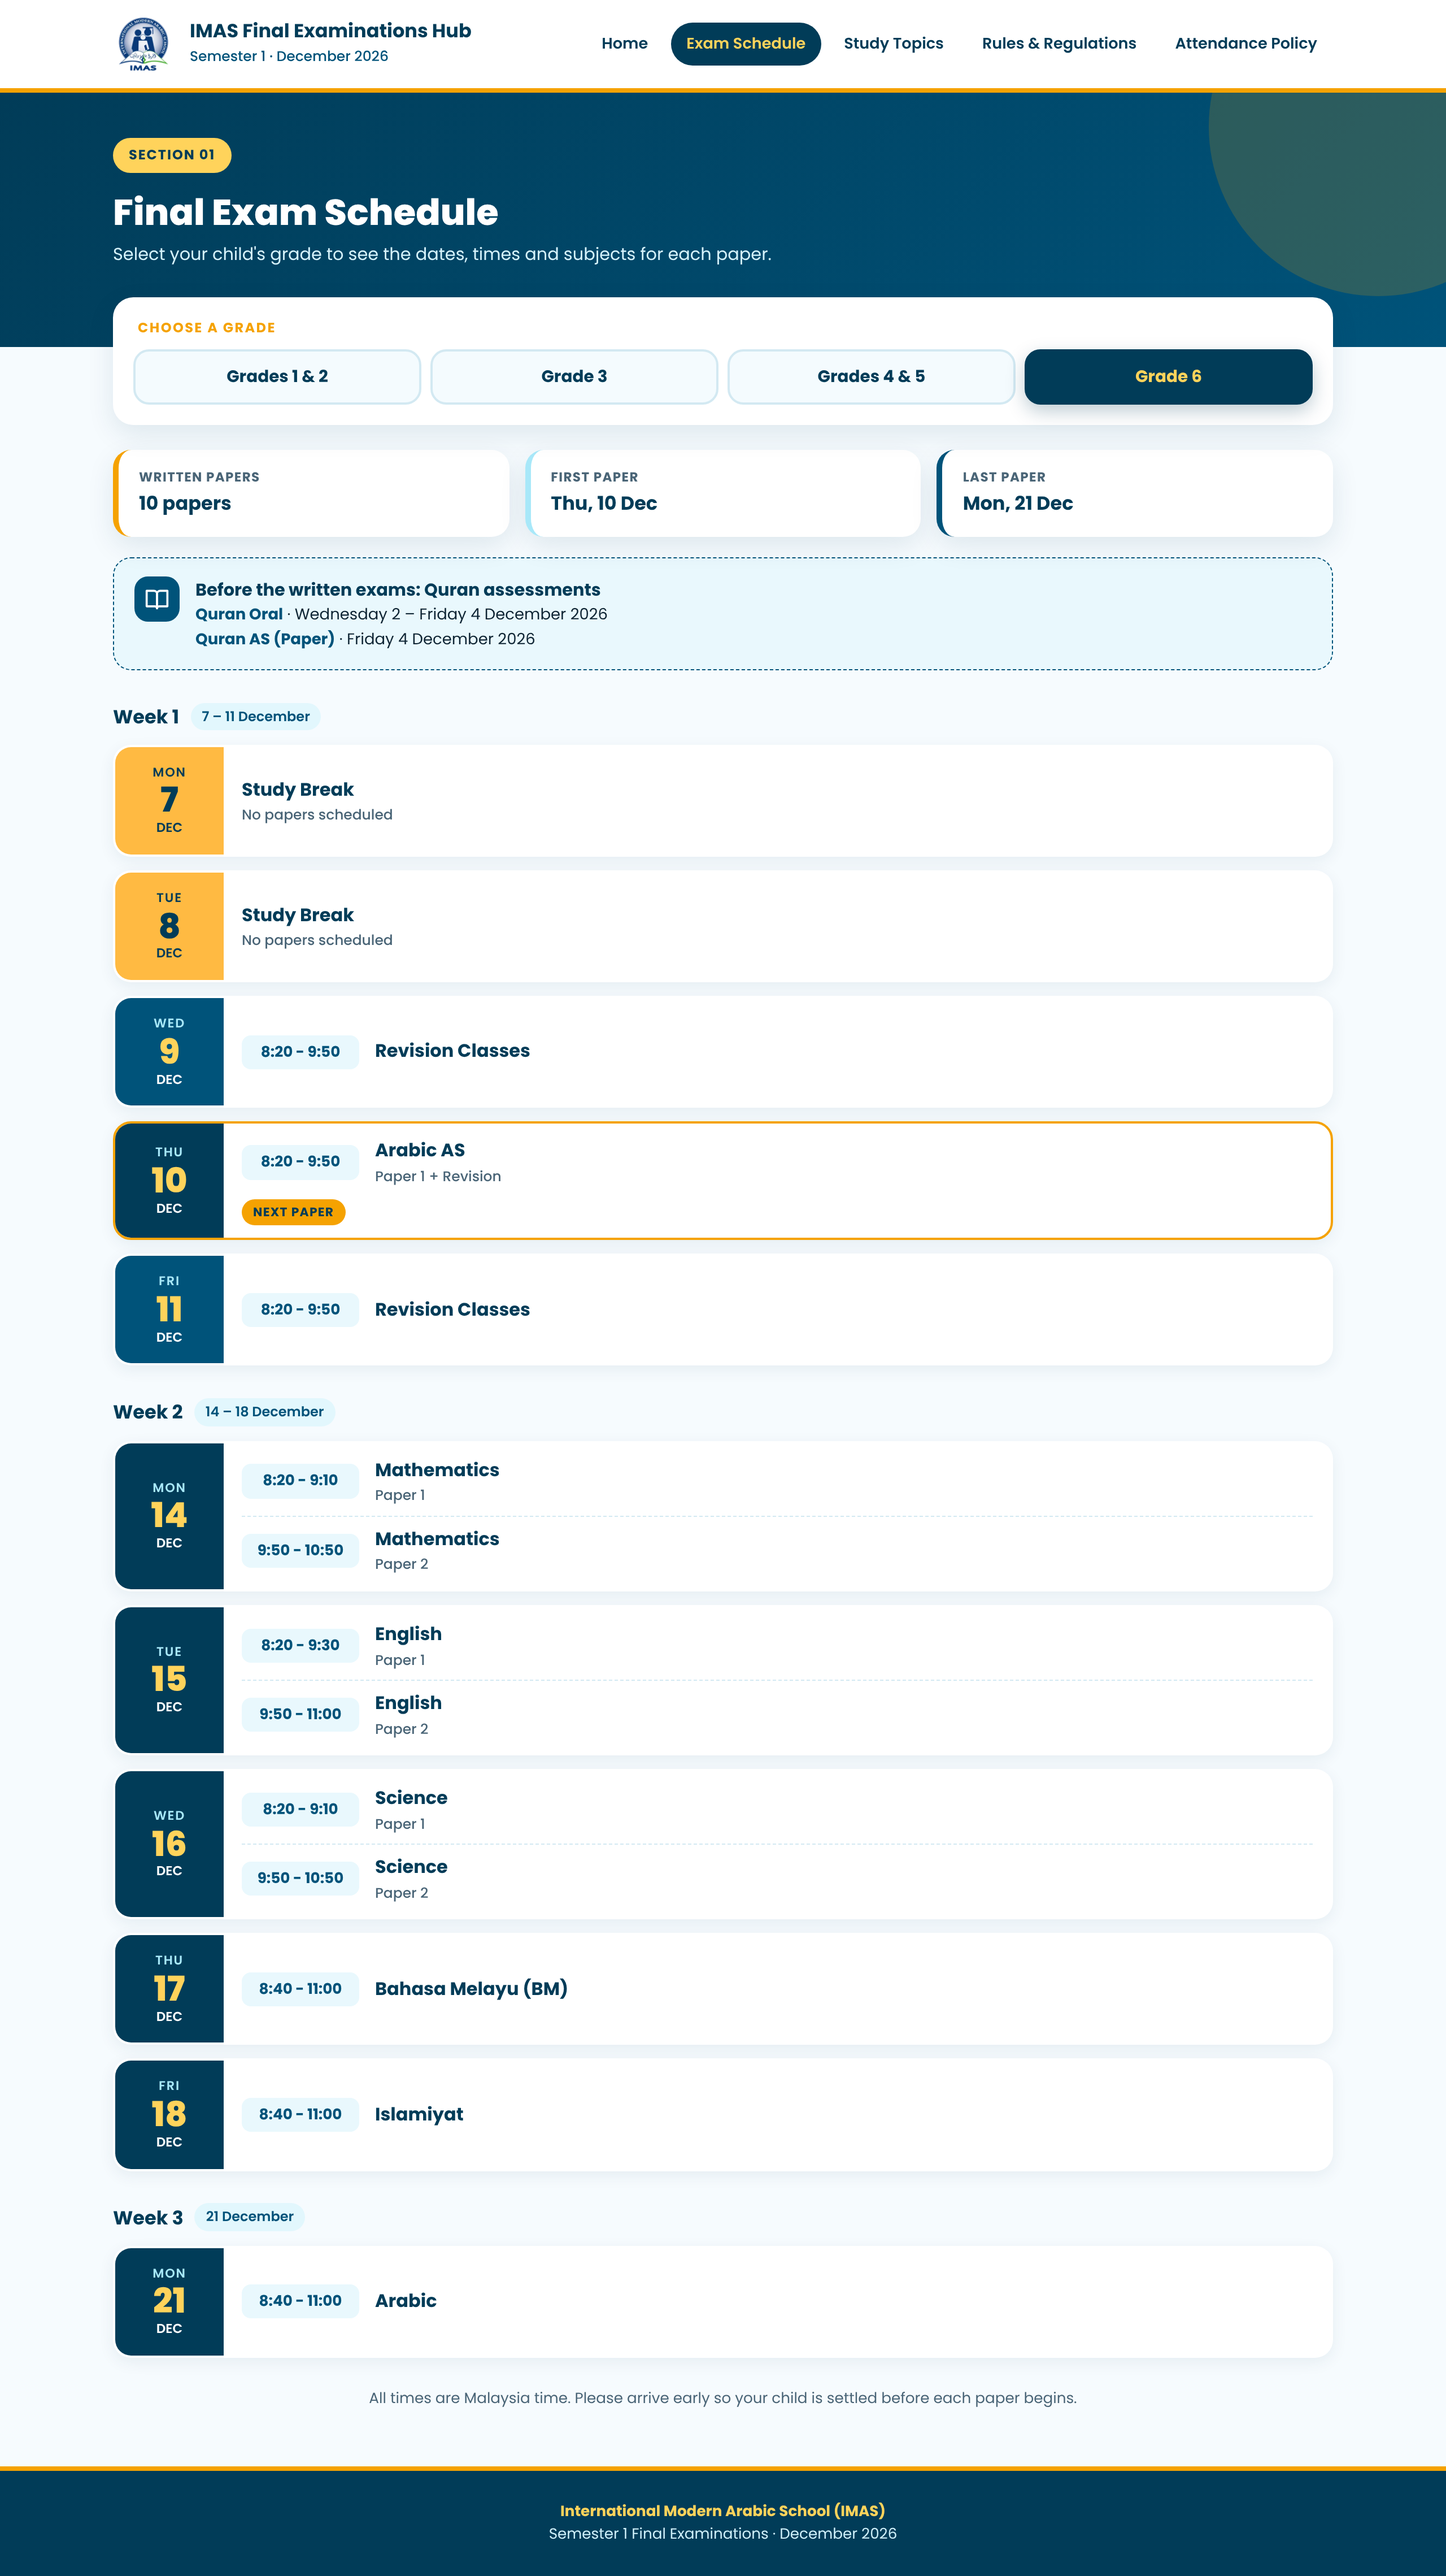
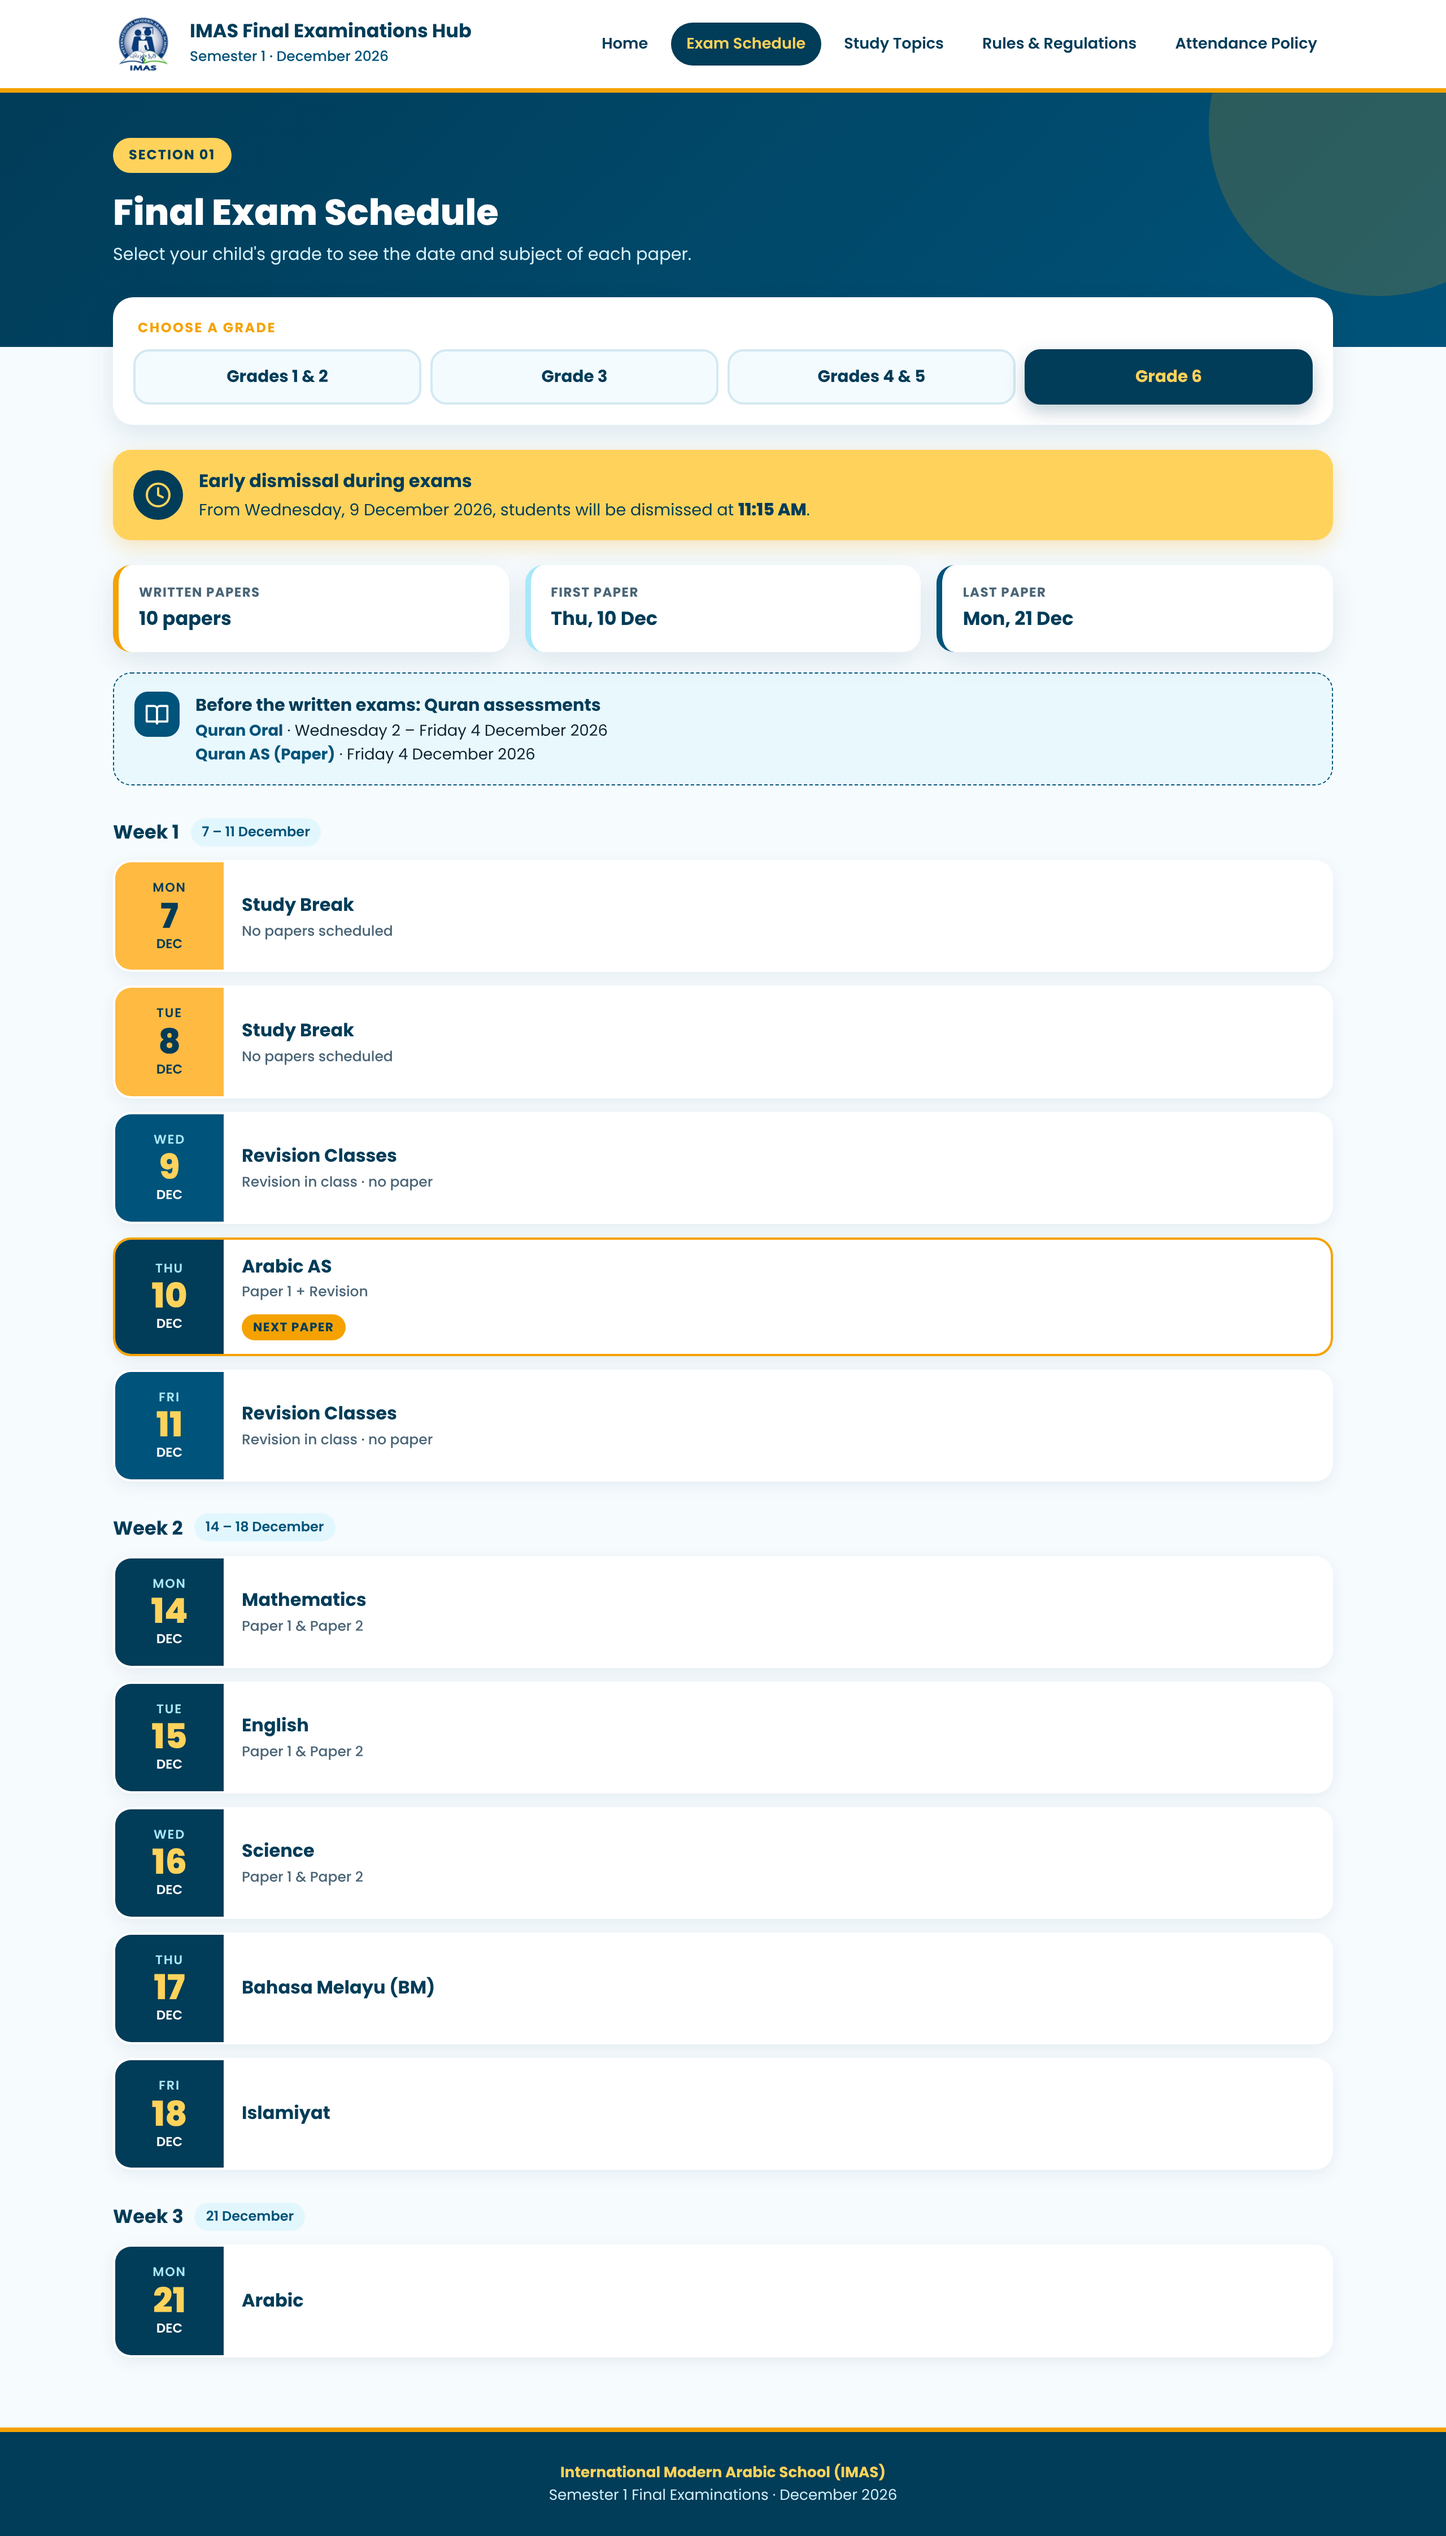
Update exam schedule from revised CSV, remove time slots, add 11:15 AM dismissal notice
Claude-Session: https://claude.ai/code/session_017sckVafi1eYcTJgytN5M8z

diff --git a/imas-exam-hub.html b/imas-exam-hub.html
@@ -173,12 +173,16 @@
   .slots{flex:1;padding:12px 16px;display:flex;flex-direction:column;justify-content:center;gap:8px;min-width:0}
   .slot{display:flex;align-items:center;gap:14px;flex-wrap:wrap}
   .slot + .slot{border-top:1px dashed #D3E9F2;padding-top:8px}
-  .time{flex:none;min-width:104px;text-align:center;font-size:.82rem;font-weight:700;color:var(--blue);background:#E9F8FD;padding:5px 10px;border-radius:8px;white-space:nowrap}
   .subj{font-weight:700;color:var(--navy);font-size:1rem;flex:1;min-width:140px}
   .subj small{display:block;font-weight:500;color:var(--muted);font-size:.78rem}
   .badge{font-size:.68rem;font-weight:700;text-transform:uppercase;letter-spacing:.06em;padding:4px 10px;border-radius:999px;background:var(--orange);color:var(--navy)}
   .badge.t{background:var(--blue);color:#fff}
-  .muted{color:var(--muted);font-weight:500;font-style:italic}
+  .dismiss{display:flex;gap:14px;align-items:center;background:var(--sun);border-radius:16px;padding:16px 18px;margin-top:22px;box-shadow:0 6px 18px rgba(245,162,1,.25)}
+  .dismiss .di{flex:none;width:44px;height:44px;border-radius:50%;background:var(--navy);display:grid;place-items:center}
+  .dismiss .di svg{width:24px;height:24px;stroke:var(--sun)}
+  .dismiss b{color:var(--navy);font-size:1rem;display:block}
+  .dismiss p{color:var(--navy);font-size:.9rem}
+  .dismiss strong{font-weight:800;font-size:1.05em}
   .sched-foot{margin:26px 0 50px;font-size:.82rem;color:var(--muted);text-align:center}
   @media (max-width:760px){
     .page-hero{padding:30px 0 64px}
@@ -189,8 +193,7 @@
     .sum{padding:10px 10px;border-left-width:4px}
     .sum small{font-size:.6rem}
     .sum b{font-size:.85rem}
-    .time{min-width:0}
-    .dt{width:74px;padding:12px 4px}
+      .dt{width:74px;padding:12px 4px}
     .dt b{font-size:1.55rem}
     .slots{padding:12px}
     .slot{gap:6px 10px}
@@ -237,7 +240,7 @@
           <div class="unit"><b id="cd-m">--</b><span>Mins</span></div>
           <div class="unit"><b id="cd-s">--</b><span>Secs</span></div>
         </div>
-        <div class="note" id="countNote">Quran Oral assessments begin 2 December 2026.</div>
+        <div class="note" id="countNote">From 9 December, students are dismissed at 11:15 AM.</div>
       </div>
     </div>
   </div>
@@ -256,7 +259,7 @@
           <div class="txt">
             <div class="num">01</div>
             <h3>Final Exam Schedule</h3>
-            <p>Dates, time slots and subjects for Grades 1 to 6.</p>
+            <p>Exam dates and subjects for Grades 1 to 6.</p>
           </div>
           <span class="go">Open schedule →</span>
         </button>
@@ -342,7 +345,7 @@
   <div class="page-hero"><div class="wrap">
     <span class="tag">Section 01</span>
     <h1>Final Exam Schedule</h1>
-    <p>Select your child's grade to see the dates, times and subjects for each paper.</p>
+    <p>Select your child's grade to see the date and subject of each paper.</p>
   </div></div>
   <div class="wrap">
     <div class="picker">
@@ -355,7 +358,7 @@
       </div>
     </div>
     <div id="schedOut"></div>
-    <p class="sched-foot">All times are Malaysia time. Please arrive early so your child is settled before each paper begins.</p>
+    <div style="height:50px"></div>
   </div>
 </div>
 <div class="panel" id="topics"><div class="wrap"><div class="soon"><h2>Study Topics &amp; Resources</h2><p>Content for this section is being prepared.</p><button class="btn btn-primary" data-tab="home">← Back to Home</button></div></div></div>
@@ -390,8 +393,8 @@
   });
 
   // ---- Countdown (Malaysia time, UTC+8) ----
-  var start = new Date('2026-12-09T08:20:00+08:00').getTime();
-  var end   = new Date('2026-12-21T11:00:00+08:00').getTime();
+  var start = new Date('2026-12-09T00:00:00+08:00').getTime();
+  var end   = new Date('2026-12-21T11:15:00+08:00').getTime();
   function pad(n){ return n < 10 ? '0' + n : n; }
   function tick(){
     var now = Date.now();
@@ -404,8 +407,8 @@
     }
     if (now >= start){
       document.getElementById('countTitle').textContent = 'Examinations in progress';
-      document.getElementById('countSub').textContent = 'Time remaining until the final paper (21 Dec)';
-      document.getElementById('countNote').textContent = 'Check the schedule for today’s papers.';
+      document.getElementById('countSub').textContent = 'Time remaining until the last exam day (21 Dec)';
+      document.getElementById('countNote').textContent = 'Students are dismissed at 11:15 AM on exam days.';
     }
     var diff = Math.max(0, (now >= start ? end : start) - now);
     document.getElementById('cd-d').textContent = Math.floor(diff / 864e5);
@@ -415,47 +418,49 @@
   }
   tick(); setInterval(tick, 1000);
   // ---- Exam schedule data (from FE Schedule CSV) ----
-  // type: exam | rev (revision / class) | none (no paper) | brk (study break)
+  // type: exam | rev (revision) | brk (study break). Optional 5th item = number of papers that day.
   var BRK = [['2026-12-07','brk'],['2026-12-08','brk']];
   var SCHED = {
     g12:{name:'Grades 1 & 2', days:BRK.concat([
-      ['2026-12-09','none','8:20 - 11:00'],
-      ['2026-12-10','exam','8:20 - 9:50','Arabic','Paper 1'],
-      ['2026-12-11','none','8:20 - 11:00'],
-      ['2026-12-14','exam','8:20 - 9:50','Science'],
-      ['2026-12-15','exam','8:20 - 9:50','Arabic','Paper 2'],
-      ['2026-12-16','exam','8:20 - 9:50','Mathematics'],
-      ['2026-12-17','exam','8:20 - 9:50','Islamiyat'],
-      ['2026-12-18','exam','8:20 - 9:50','English']])},
+      ['2026-12-09','rev','Revision'],
+      ['2026-12-10','exam','Arabic','Paper 1'],
+      ['2026-12-11','rev','Revision'],
+      ['2026-12-14','exam','Science'],
+      ['2026-12-15','exam','Arabic','Paper 2'],
+      ['2026-12-16','exam','Mathematics'],
+      ['2026-12-17','exam','Islamiyat'],
+      ['2026-12-18','exam','English']])},
     g3:{name:'Grade 3', days:BRK.concat([
-      ['2026-12-09','exam','8:40 - 11:00','English','Paper 1'],
-      ['2026-12-10','exam','8:40 - 9:50','Arabic AS','Paper 1 + Revision'],
-      ['2026-12-11','exam','8:40 - 9:50','Mathematics'],
-      ['2026-12-14','exam','8:40 - 11:00','Arabic'],
-      ['2026-12-15','exam','8:40 - 11:00','Science'],
-      ['2026-12-16','exam','8:40 - 11:00','Bahasa Melayu (BM)'],
-      ['2026-12-17','exam','8:40 - 11:00','English','Paper 2'],
-      ['2026-12-18','exam','8:40 - 11:00','Islamiyat']])},
+      ['2026-12-09','exam','English','Paper 1'],
+      ['2026-12-10','exam','Arabic AS','Paper 1'],
+      ['2026-12-11','exam','Mathematics'],
+      ['2026-12-14','exam','Arabic'],
+      ['2026-12-15','exam','Science'],
+      ['2026-12-16','exam','Bahasa Melayu (BM)'],
+      ['2026-12-17','exam','English','Paper 2'],
+      ['2026-12-18','exam','Islamiyat']])},
     g45:{name:'Grades 4 & 5', days:BRK.concat([
-      ['2026-12-09','exam','8:40 - 11:00','English','Paper 1'],
-      ['2026-12-10','exam','8:40 - 9:50','Arabic AS','Paper 1 + Revision'],
-      ['2026-12-11','exam','8:40 - 9:50','Science'],
-      ['2026-12-14','exam','8:40 - 11:00','Arabic'],
-      ['2026-12-15','exam','8:40 - 11:00','Mathematics'],
-      ['2026-12-16','exam','8:40 - 11:00','Bahasa Melayu (BM)'],
-      ['2026-12-17','exam','8:40 - 11:00','English','Paper 2'],
-      ['2026-12-18','exam','8:40 - 11:00','Islamiyat']])},
+      ['2026-12-09','exam','English','Paper 1'],
+      ['2026-12-10','exam','Arabic AS','Paper 1 + Revision'],
+      ['2026-12-11','exam','Science'],
+      ['2026-12-14','exam','Arabic'],
+      ['2026-12-15','exam','Mathematics'],
+      ['2026-12-16','exam','Bahasa Melayu (BM)'],
+      ['2026-12-17','exam','English','Paper 2'],
+      ['2026-12-18','exam','Islamiyat']])},
     g6:{name:'Grade 6', days:BRK.concat([
-      ['2026-12-09','rev','8:20 - 9:50','Revision Classes'],
-      ['2026-12-10','exam','8:20 - 9:50','Arabic AS','Paper 1 + Revision'],
-      ['2026-12-11','rev','8:20 - 9:50','Revision Classes'],
-      ['2026-12-14','exam','8:20 - 9:10','Mathematics','Paper 1','9:50 - 10:50','Mathematics','Paper 2'],
-      ['2026-12-15','exam','8:20 - 9:30','English','Paper 1','9:50 - 11:00','English','Paper 2'],
-      ['2026-12-16','exam','8:20 - 9:10','Science','Paper 1','9:50 - 10:50','Science','Paper 2'],
-      ['2026-12-17','exam','8:40 - 11:00','Bahasa Melayu (BM)'],
-      ['2026-12-18','exam','8:40 - 11:00','Islamiyat'],
-      ['2026-12-21','exam','8:40 - 11:00','Arabic']])}
+      ['2026-12-09','rev','Revision Classes'],
+      ['2026-12-10','exam','Arabic AS','Paper 1 + Revision'],
+      ['2026-12-11','rev','Revision Classes'],
+      ['2026-12-14','exam','Mathematics','Paper 1 & Paper 2',2],
+      ['2026-12-15','exam','English','Paper 1 & Paper 2',2],
+      ['2026-12-16','exam','Science','Paper 1 & Paper 2',2],
+      ['2026-12-17','exam','Bahasa Melayu (BM)'],
+      ['2026-12-18','exam','Islamiyat'],
+      ['2026-12-21','exam','Arabic']])}
   };
+  var DISMISS = '<div class="dismiss"><div class="di"><svg viewBox="0 0 24 24" fill="none" stroke-width="2" stroke-linecap="round" stroke-linejoin="round"><circle cx="12" cy="12" r="10"/><path d="M12 6v6l4 2"/></svg></div>' +
+    '<div><b>Early dismissal during exams</b><p>From Wednesday, 9 December 2026, students will be dismissed at <strong>11:15 AM</strong>.</p></div></div>';
   var DN = ['Sunday','Monday','Tuesday','Wednesday','Thursday','Friday','Saturday'];
   var WEEKS = [['Week 1','7 – 11 December','2026-12-07','2026-12-11'],
                ['Week 2','14 – 18 December','2026-12-14','2026-12-18'],
@@ -465,8 +470,8 @@
   function todayMY(){ return new Date(Date.now() + 8*36e5).toISOString().slice(0,10); }
   function fmt(iso){ var p = parts(iso); return p.dow.slice(0,3) + ', ' + p.d + ' Dec'; }
 
-  function slotHTML(time, subj, sub){
-    return '<div class="slot"><span class="time">' + esc(time) + '</span><div class="subj">' + esc(subj) +
+  function slotHTML(subj, sub){
+    return '<div class="slot"><div class="subj">' + esc(subj) +
            (sub ? '<small>' + esc(sub) + '</small>' : '') + '</div></div>';
   }
   function renderSchedule(g){
@@ -475,10 +480,10 @@
     try { localStorage.setItem('imasGrade', g); } catch(e){}
     var today = todayMY();
     var exams = S.days.filter(function(d){ return d[1] === 'exam'; });
-    var papers = exams.reduce(function(n,d){ return n + (d[5] ? 2 : 1); }, 0);
+    var papers = exams.reduce(function(n,d){ return n + (d[4] || 1); }, 0);
     var nextDay = (exams.filter(function(d){ return d[0] >= today; })[0] || [])[0];
 
-    var h = '<div class="summary">' +
+    var h = DISMISS + '<div class="summary">' +
       '<div class="sum" style="--c:var(--orange)"><small>Written papers</small><b>' + papers + ' papers</b></div>' +
       '<div class="sum" style="--c:var(--sky)"><small>First paper</small><b>' + fmt(exams[0][0]) + '</b></div>' +
       '<div class="sum" style="--c:var(--blue)"><small>Last paper</small><b>' + fmt(exams[exams.length-1][0]) + '</b></div></div>';
@@ -499,11 +504,8 @@
         else if (d[0] === nextDay) cls += ' next';
         var body;
         if (d[1] === 'brk') body = '<div class="slot"><div class="subj">Study Break<small>No papers scheduled</small></div></div>';
-        else if (d[1] === 'none') body = '<div class="slot"><span class="time">' + esc(d[2]) + '</span><div class="subj"><span class="muted">No paper scheduled</span></div></div>';
-        else {
-          body = slotHTML(d[2], d[3], d[4]);
-          if (d[5]) body += slotHTML(d[5], d[6], d[7]);
-        }
+        else if (d[1] === 'rev') body = slotHTML(d[2], 'Revision in class · no paper');
+        else body = slotHTML(d[2], d[3]);
         if (d[0] === today) body += '<div><span class="badge t">Today</span></div>';
         else if (d[0] === nextDay) body += '<div><span class="badge">Next paper</span></div>';
         h += '<div class="day ' + cls + '"><div class="dt"><small>' + p.dow.slice(0,3) + '</small><b>' + p.d + '</b><span>DEC</span></div><div class="slots">' + body + '</div></div>';
